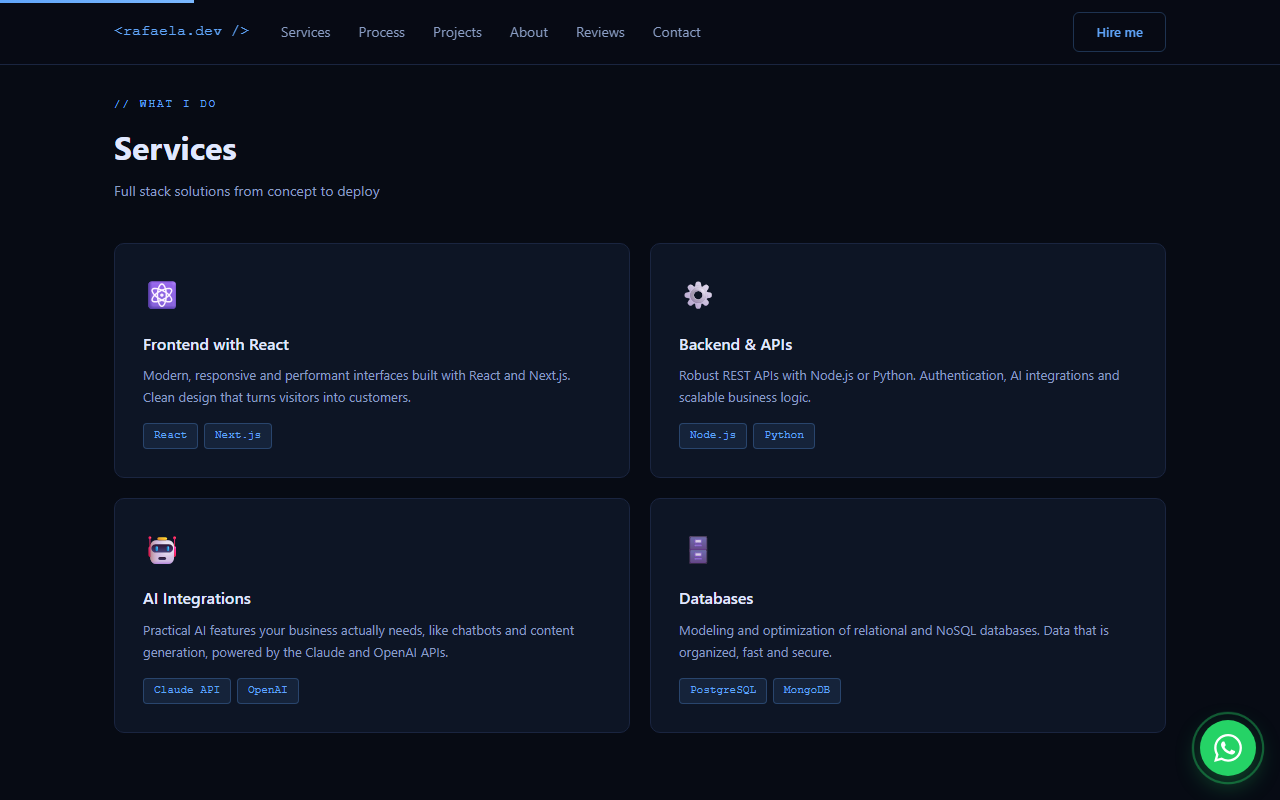
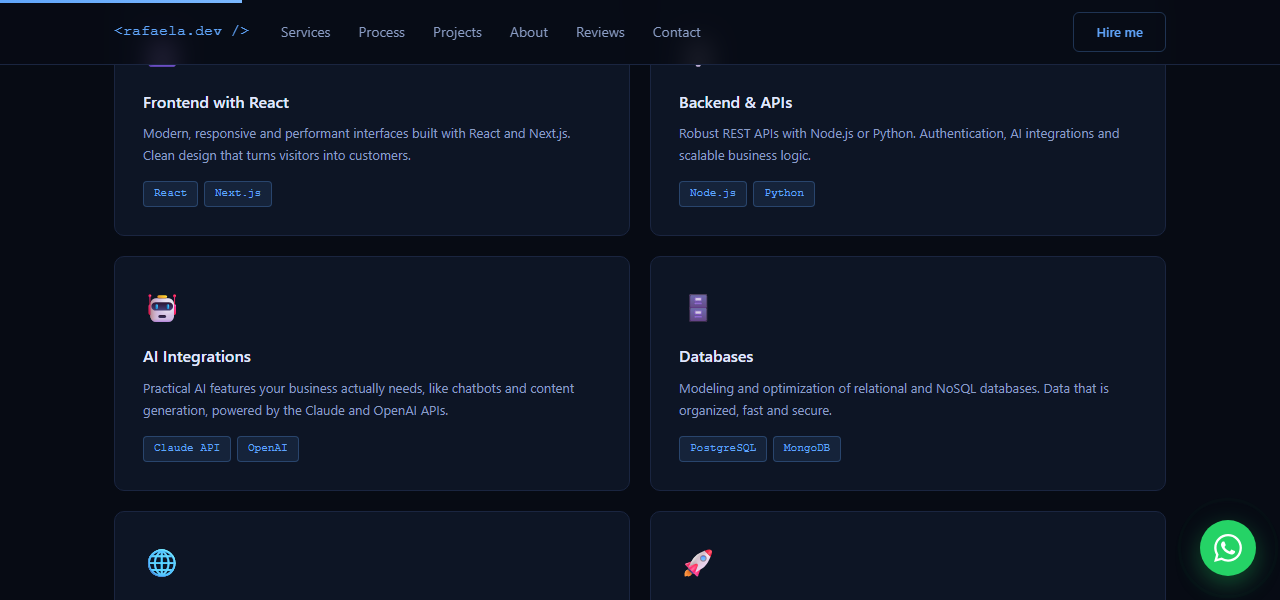
chore: recapture landing/schedula screenshots at matching aspect ratio
Re-shot at 1280x600 viewport so landing and Schedula carousel images share
the same ~2.13:1 ratio as EstudaAI. Preview aspect-ratio updated to 64/30
so all carousels render at consistent size.

diff --git a/styles/main.css b/styles/main.css
@@ -455,7 +455,7 @@ button { cursor: pointer; font-family: var(--font); }
 
 .project-card__preview--carousel {
   padding: 0;
-  aspect-ratio: 16 / 10;
+  aspect-ratio: 64 / 30;
   background: linear-gradient(135deg, #1e3a8a 0%, #6d28d9 100%);
 }
 
